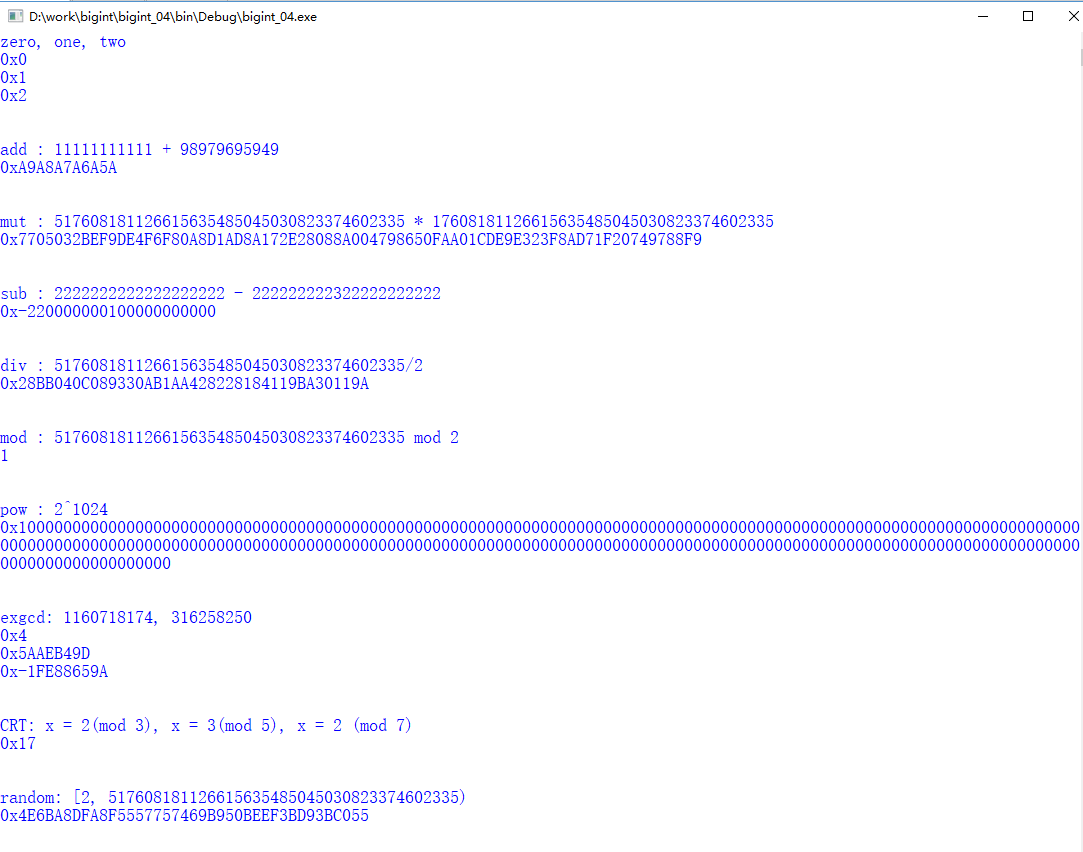
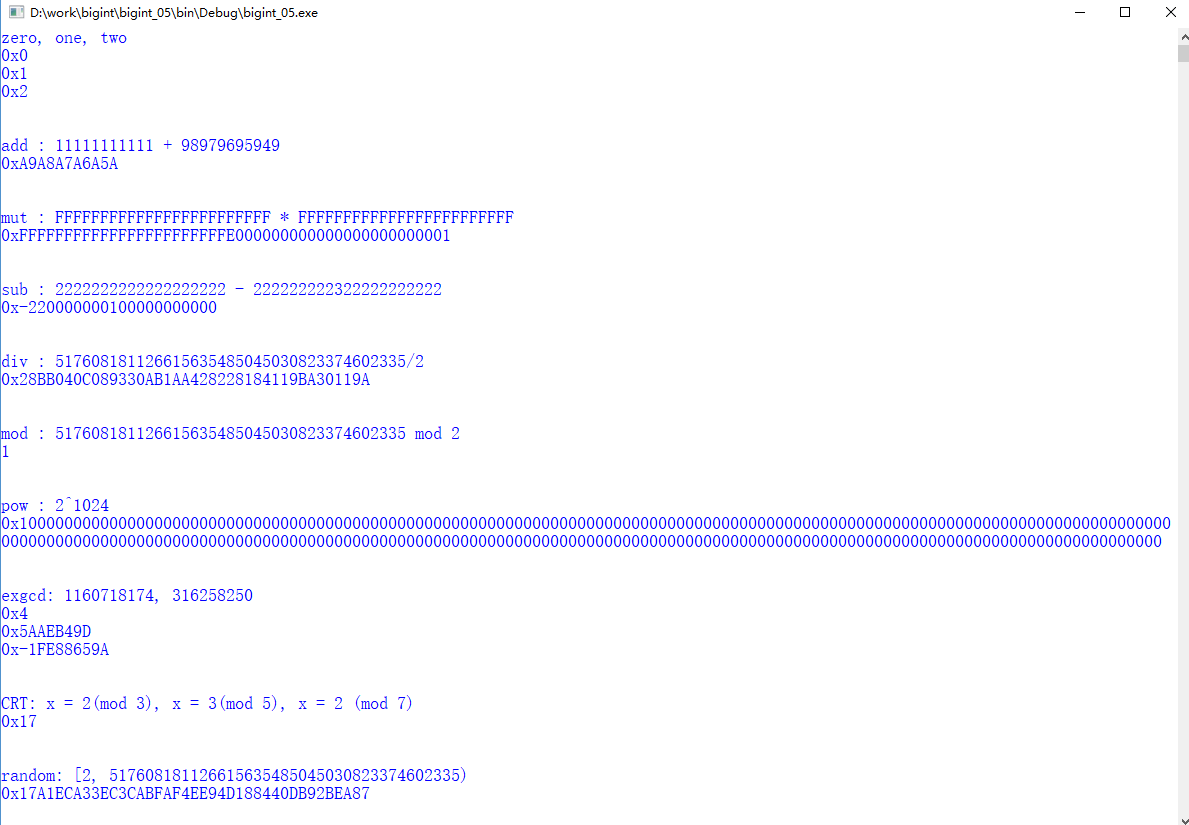
optimize bigint

diff --git a/BIGINT/bigint.c b/BIGINT/bigint.c
@@ -206,6 +206,7 @@ static inline bigint  __sub_bigint(bigint l, bigint r)
     return b;
 }
 
+
 static inline bigint  __mut_bigint(bigint l, bigint r)
 {
     bigint b;
@@ -217,17 +218,20 @@ static inline bigint  __mut_bigint(bigint l, bigint r)
         int tmp = 0;
         for (j = 0; j < l.len; ++j) {
             tmp = b.data[i+j] + flag + r.data[i] * l.data[j];
-            flag = (tmp)/BASE;
+            flag = (tmp/BASE);
             b.data[i+j] = (tmp)%BASE;
         }
         tmp = b.data[i+j] + flag;
-        b.data[i+j] = (tmp)%BASE;
-        flag = (tmp)/BASE;
+        b.data[i+j] = (tmp%BASE);
+        flag = (tmp/BASE);
     }
 
     b.len = get_bigint_len(b.data, b.len);
     return b;
 }
+
+
+
 
 
 
@@ -244,8 +248,20 @@ bigint  pow_bigint(bigint x, int n)
     return d;
 }
 
+void add_bigint_1(bigint * b)
+{
+    base_type flag = 1;
+    base_type tmp = 0;
+    for (int i = 0; i < b->len; ++i) {
+        tmp = flag + b->data[i];
+        flag = (tmp/BASE);
+        b->data[i] = tmp%BASE;
+    }
 
-
+    if (flag == 1) {
+        b->data[b->len++] = flag;
+    }
+}
 
 
 bigint  add_bigint(bigint l, bigint r)
@@ -309,21 +325,8 @@ bigint  sub_bigint(bigint l, bigint r)
 bigint  mut_bigint(bigint l, bigint r)
 {
     bigint b;
-    int ch = check_s(l.flag, r.flag);
-
-    switch (ch) {
-    case 0:
-    case 3:
-    default:
-        b = __mut_bigint(l, r);
-        b.flag = POSITIVE;
-        break;
-    case 1:
-    case 2:
-        b = __mut_bigint(l, r);
-        b.flag = NEGATIVE;
-        break;
-    }
+    b = __mut_bigint(l, r);
+    b.flag = !(l.flag^r.flag);
     return b;
 }
 
@@ -368,7 +371,47 @@ void  div_mod_bigint(bigint *a, bigint *r, bigint *b, bigint *l)
     }
 }
 
+static inline int get_bitlen_basetype(base_type b)
+{
+    int len = 0;
+    while (b != 0) {
+        b = b>>1;
+        ++len;
+    }
+    return len;
+}
 
+int get_bitlen(bigint* d)
+{
+    return (get_bitlen_basetype(d->data[d->len - 1]) + (d->len - 1) * BASE_BITLEN);
+}
+
+
+void lshift(bigint* d, int n)
+{
+    if (!n) {
+        return;
+    }
+
+    int len = n/BASE_BITLEN;
+    int bitlen = n%BASE_BITLEN;
+    int tmp = 0;
+    int flag = 0;
+
+    for (int i = 0; i < d->len; ++i) {
+        tmp = (d->data[d->len - i - 1] << bitlen);
+        d->data[d->len + len - i] = tmp / BASE + flag;
+        flag =  tmp % BASE;
+    }
+
+    d->data[len] = flag;
+
+    for (int i = 0; i < len; ++i) {
+        d->data[i] = 0;
+    }
+    d->len += len+1;
+    d->len = get_bigint_len(d->data, d->len);
+}
 
 
 void s_left(bigint *a, int n)
@@ -404,25 +447,21 @@ bigint  div_bigint(bigint l, bigint r)
 }
 
 
-
-
-
 bigint  mod_bigint(bigint l, bigint r)
 {
     while (!is_less(l,r)) {
-        if (l.len - r.len > 1) {
+        int n = get_bitlen(&l) - get_bitlen(&r) - 1;
+        if (n > 0) {
             bigint c = r;
-            s_left(&c, l.len - r.len - 1);
-            while (!is_less(l, c)) {
-                l = sub_bigint(l,c);
-            }
+            lshift(&c, n);
+            l = sub_bigint(l,c);
         } else {
             l = sub_bigint(l,r);
         }
-
     }
     return l;
 }
+
 
 bigint  pow_m_bigint(bigint x, bigint n, bigint m)
 {

diff --git a/BIGINT/main.c b/BIGINT/main.c
@@ -18,9 +18,9 @@ void test_add()
 
 void test_mut()
 {
-    printf("mut : 517608181126615635485045030823374602335 * 17608181126615635485045030823374602335\n");
-    bigint a = string_to_bigint("517608181126615635485045030823374602335");
-    bigint b = string_to_bigint("17608181126615635485045030823374602335");
+    printf("mut : FFFFFFFFFFFFFFFFFFFFFFFF * FFFFFFFFFFFFFFFFFFFFFFFF\n");
+    bigint a = string_to_bigint("FFFFFFFFFFFFFFFFFFFFFFFF");
+    bigint b = string_to_bigint("FFFFFFFFFFFFFFFFFFFFFFFF");
     bigint c = mut_bigint(a,b);
     output_bigint(c);
     printf("\n\n");
@@ -261,7 +261,7 @@ int miller_rabin(bigint n, int t)
         if (is_equal(a, ONE)) {
             flag = 1;
         }
-        for (bigint j = ZERO; is_less(j, k); j = add_bigint(j, ONE)) {
+        for (bigint j = ZERO; is_less(j, k); add_bigint_1(&j)) {
             if (is_equal(a, n_1)) {
                 flag = 1;
                 break;
@@ -375,10 +375,31 @@ void test_div2()
     printf("\n\n");
 }
 
+void test_add_1()
+{
+    bigint n = string_to_bigint("FFF");
+    for (bigint j = ONE; is_less(j,n); add_bigint_1(&j) ) {
+        output_bigint(j);
+    }
+}
+
+void test_lshift()
+{
+    for (int i = 0; i < 16; ++i) {
+        bigint n = string_to_bigint("FFF");
+        lshift(&n, i);
+        printf("%d :", get_bitlen(&n));
+        output_bigint(n);
+
+    }
+
+}
+
 int main()
 {
     clock_t start, end;
     start = clock();
+    //test_lshift();
 
     test_const();
     test_add();

diff --git a/BIGINT/bigint.h b/BIGINT/bigint.h
@@ -13,6 +13,7 @@
 #define NEGATIVE 0
 
 #define BASE 16
+#define BASE_BITLEN 4
 
 typedef char  base_type;
 
@@ -35,19 +36,21 @@ bigint  pow_bigint(bigint, int);
 bigint  pow_m_bigint(bigint l, bigint r, bigint m);
 
 bigint  random_bigint_n(int n);
-bigint  random_bigint(bigint l, bigint r);
+bigint  random_bigint(bigint, bigint);
 
-void  div_mod_bigint(bigint *a, bigint *r, bigint *b, bigint *l);
-void s_left(bigint *, int );
-void div_2(bigint *);
+void  div_mod_bigint(bigint*, bigint*, bigint*, bigint*);
+void s_left(bigint*, int);
+int get_bitlen(bigint* );
+void lshift(bigint* , int);
+void div_2(bigint*);
+void add_bigint_1(bigint*);
 
 int is_equal(bigint, bigint);
 int is_less(bigint, bigint);
 int is_greater(bigint, bigint);
 
-bigint  string_to_bigint(char *);
-void bigint_to_string(bigint, char *);
+bigint  string_to_bigint(char*);
+void bigint_to_string(bigint, char*);
 void output_bigint(bigint t);
-
 
 #endif

diff --git a/BIGINT/README.md b/BIGINT/README.md
@@ -4,5 +4,17 @@
 大整数的C语言实现
 
 
+![运行结果1](https://github.com/alants56/encryption/blob/master/BIGINT/01.png)
+
+
+![运行结果2](https://github.com/alants56/encryption/blob/master/BIGINT/02.png)
+
+
+Build blog：
+![blog](https://github.com/alants56/encryption/blob/master/BIGINT/03.png)
+
+
+注意：
+本代码可能会在某些编译器下编译的程序会运行时会出现问题，目前还没找到原因，但在我自己的编译器下无任何问题。
 
 个人邮箱：<alants56@163.com>
